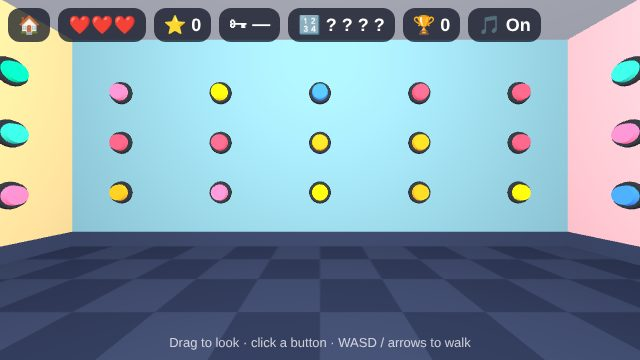
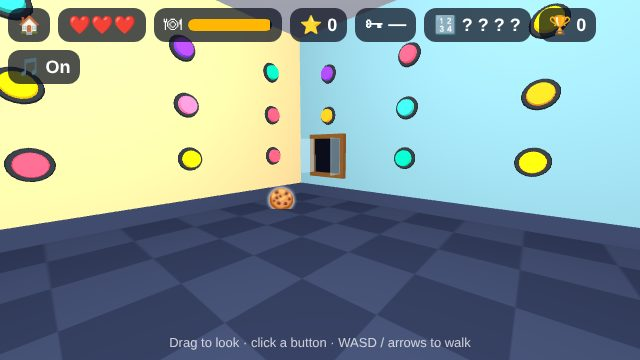
Button Room: hunger bar, food from pop-out windows, breakable vases, and chests you can smash or open with a code from a sticky note
Claude-Session: https://claude.ai/code/session_012zsgkUrjgma7X9rcNX1Aym

diff --git a/button-room/index.html b/button-room/index.html
@@ -59,11 +59,17 @@ button{font-family:inherit;font-weight:bold;cursor:pointer;border:0;border-radiu
 #joy i{position:absolute;left:50%;top:50%;width:46px;height:46px;margin:-23px;border-radius:50%;background:rgba(255,255,255,.6)}
 .conf{position:fixed;top:-30px;font-size:24px;animation:fall linear forwards;pointer-events:none;z-index:4}
 @keyframes fall{to{transform:translateY(110vh) rotate(540deg)}}
+#hHunger b{font-weight:normal}
+#hHunger u{display:inline-block;width:84px;height:12px;background:#0c1124;border-radius:6px;vertical-align:middle;margin-left:6px;overflow:hidden;text-decoration:none}
+#hHunger i{display:block;height:100%;width:100%;background:#ffb703}
+#hHunger.low i{background:#ff4d6d}
+#hHunger.low{animation:pulse .7s infinite alternate}
+@keyframes pulse{to{background:rgba(130,20,45,.9)}}
 </style>
 </head>
 <body>
 <canvas id="c"></canvas>
-<div id="hud"><span id="hHome" style="display:none;pointer-events:auto;cursor:pointer" role="button" aria-label="All games">🏠</span><span id="hLives"></span><span id="hStars"></span><span id="hKey"></span><span id="hCode"></span><span id="hTro"></span><span id="hMus" style="pointer-events:auto;cursor:pointer">🎵 On</span></div>
+<div id="hud"><span id="hHome" style="display:none;pointer-events:auto;cursor:pointer" role="button" aria-label="All games">🏠</span><span id="hLives"></span><span id="hHunger" title="Food"><b>🍽</b><u><i></i></u></span><span id="hStars"></span><span id="hKey"></span><span id="hCode"></span><span id="hNote" style="display:none"></span><span id="hTro"></span><span id="hMus" style="pointer-events:auto;cursor:pointer">🎵 On</span></div>
 <div id="hint"></div>
 <div id="toast"></div>
 <div id="joy"><i></i></div>
@@ -143,7 +149,7 @@ WALLS.forEach((w,wi)=>{
   const bg=new THREE.Group();bg.position.set(x,y,0);g.add(bg);
   const base=new THREE.Mesh(baseGeo,M({color:0x333a44}));base.rotation.x=Math.PI/2;base.position.z=.03;bg.add(base);
   const cap=new THREE.Mesh(capGeo,M({color:0xffffff,emissive:0x000000,emissiveIntensity:.3}));cap.rotation.x=Math.PI/2;cap.position.z=.1;bg.add(cap);
-  const b={base,cap,wall:wi,type:'good',used:false,z:.1,tz:.1};
+  const b={base,cap,wall:wi,type:'good',used:false,z:.1,tz:.1,x,y};
   base.userData={kind:'btn',b};cap.userData={kind:'btn',b};buttons.push(b);clickables.push(base,cap);
  }));
 });
@@ -184,14 +190,16 @@ function hud(){
  $('#hKey').textContent=hasKey?'🗝 Key!':'🗝 —';
  $('#hCode').textContent='🔢 '+(hasCode?code.join(' '):code.map(()=>'?').join(' '));
  $('#hTro').textContent='🏆 '+trophies;
+ $('#hNote').style.display=knowsNote?'':'none';$('#hNote').textContent='📝 '+chestCode;
 }
 function toast(t){const e=$('#toast');e.textContent=t;e.classList.add('on');clearTimeout(toast.t);toast.t=setTimeout(()=>e.classList.remove('on'),2600);}
 function fillButtons(first){
- let types=first?['door','chest','paper']:[];
+ clearWindows();
+ let types=(first?['door','chest','paper']:[]).concat(['window','window','window','window','window','window','window','vase','vase','vase','vase','loot','loot','loot']);
  const n=buttons.length-types.length,ng=Math.round(n*.27),nb=Math.round(n*.28);
  for(let i=0;i<n;i++)types.push(i<ng?'good':i<ng+nb?'bad':'chal');
  shuffle(types);
- buttons.forEach((b,i)=>{b.type=types[i];b.used=false;b.tz=.1;const c=BCOL[rnd(BCOL.length)];b.cap.material.color.set(c);b.cap.material.emissive.set(c);b.base.material.color.set(0x333a44);
+ buttons.forEach((b,i)=>{b.type=types[i];b.used=false;b.tz=.1;const c=BCOL[rnd(BCOL.length)];b.cap.material.color.set(c);b.cap.material.emissive.set(c);b.base.material.color.set(0x333a44);b.cap.visible=b.base.visible=true;
   if(b.type==='door'){wallG[b.wall].add(door);}});
 }
 function setLights(on){amb.intensity=on?.65:.07;lamp.intensity=on?.75:.12;}
@@ -203,7 +211,8 @@ function reset(){
  document.querySelectorAll('.conf').forEach(e=>e.remove());
  fillButtons(true);
  const a=Math.random()*Math.PI*2;chest.position.set(Math.sin(a)*2.6,0,Math.cos(a)*2.6);chest.rotation.y=a+Math.PI;
- camera.position.set(0,1.6,0);yaw=0;pitch=0;hud();
+ camera.position.set(0,1.6,0);yaw=0;pitch=0;
+ hunger=100;lowWarned=false;knowsNote=false;chestCode=''+rnd(10)+rnd(10)+rnd(10);clearSpawned();placeNotes();hud();
 }
 
 /* ---------- cards ---------- */
@@ -223,7 +232,7 @@ function press(b){
  if(b.used||busy)return;b.used=true;b.tz=.05;b.cap.material.color.set(0x59606b);b.cap.material.emissive.set(0x000000);b.base.material.color.set(0x333a44);
  sfx.press();busy=true;setTimeout(()=>resolve(b),380);
 }
-function peekSome(){const left=shuffle(buttons.filter(b=>!b.used)).slice(0,3);const col={good:0x06d6a0,bad:0xff2244,chal:0xffd60a,door:0x3a86ff,chest:0x3a86ff,paper:0x3a86ff};left.forEach(b=>b.base.material.color.set(col[b.type]));return left.length;}
+function peekSome(){const left=shuffle(buttons.filter(b=>!b.used)).slice(0,3);const col={good:0x06d6a0,bad:0xff2244,chal:0xffd60a,door:0x3a86ff,chest:0x3a86ff,paper:0x3a86ff,window:0xff9f1c,vase:0xff9f1c,loot:0xff9f1c};left.forEach(b=>b.base.material.color.set(col[b.type]));return left.length;}
 function resolve(b){
  const t=b.type;
  if(t==='door'){doorFound=true;door.visible=true;door.scale.y=.01;sfx.good();
@@ -232,21 +241,26 @@ function resolve(b){
   show('<h2>📄 A piece of paper popped out!</h2><div class="paper">'+code.join('')+'</div><p>That is the door passcode! It is saved at the top of the screen.</p><button class="go">OK</button>');card.querySelector('.go').onclick=()=>{hide();afterTurn();};return;}
  if(t==='chest'){chestFound=true;chest.visible=true;chest.scale.set(.01,.01,.01);sfx.good();
   info('🧰','A treasure chest!','A chest dropped into the room. The door key is inside — it costs <b>'+KEY_COST+' ⭐</b> to open. Click the chest when you have enough.',afterTurn);return;}
+ if(t==='window'){sfx.good();const fp=spawnWindow(b);firstTime('window','🪟','A window pops out!','A window popped out of the wall and <b>food fell out</b>! Click the food on the floor to eat it. Your <b>🍽 bar</b> needs it.','🪟 Food is falling out of the window!',fp);return;}
+ if(t==='vase'){sfx.good();const v=spawnVase();firstTime('vase','🏺','A vase!','A vase appeared in the room. <b>Click it 3 times to break it</b> and see what is inside.','🏺 A vase! Click it 3 times to break it.',v.pos);return;}
+ if(t==='loot'){sfx.good();const c=spawnLoot();firstTime('loot','🧰','A locked chest!','<b>Smash it</b> by clicking the chest 6 times (only food and stars survive a smash). Or click its <b>🔒 lock</b> and type the 3-digit code from a <b>yellow sticky note 📝</b> on the walls. Opening it with the code can give the key, the passcode, hearts and more!','🧰 A chest! Smash it, or use the code from a sticky note.',c.pos);return;}
  if(t==='good'){sfx.good();const r=Math.random();
   if(r<.45){addStars(1);info('⭐','Lucky!','You got 1 star.',afterTurn);}
   else if(r<.63){addStars(2);info('🌟','Very lucky!','You got 2 stars.',afterTurn);}
   else if(r<.68){addStars(3);info('💫','JACKPOT!','You got 3 stars!',afterTurn);}
   else if(r<.77){if(lives<3){lives++;hud();info('❤','Extra life!','One life came back.',afterTurn);}else{addStars(1);info('⭐','Lucky!','Your lives are full, so you got a star instead.',afterTurn);}}
   else if(r<.87){shield=true;hud();info('🛡','Shield!','It will block the next bad thing or failed challenge.',afterTurn);}
-  else{const n=peekSome();info('👀','X-ray glasses!',n+' buttons now show a colored rim:<br>🟢 good · 🔴 bad · 🟡 challenge · 🔵 door, chest or paper',afterTurn);}
+  else if(r>.94){hunger=Math.min(100,hunger+25);lowWarned=false;info('🥪','Tasty snack!','You found a snack. Your 🍽 bar went up!',afterTurn);}
+  else{const n=peekSome();info('👀','X-ray glasses!',n+' buttons now show a colored rim:<br>🟢 good · 🔴 bad · 🟡 challenge · 🔵 door, chest or paper · 🟠 food',afterTurn);}
   return;}
  if(t==='bad'){
   if(shield){shield=false;hud();sfx.good();info('🛡','Blocked!','That was a bad button, but your shield blocked it.',afterTurn);return;}
   sfx.bad();const r=Math.random();
-  if(r<.32){if(stars>0){addStars(-1);info('🦝','A thief!','A raccoon stole 1 star.',afterTurn);}else info('🦝','A thief!','A raccoon came to steal a star… but you have none. Ha!',afterTurn);}
-  else if(r<.5){if(stars>0){const n=Math.min(2,stars);addStars(-n);info('🕳','Hole in your pocket!','You dropped '+n+' star'+(n>1?'s':'')+'.',afterTurn);}else info('🕳','Hole in your pocket!','Good thing your pockets were empty.',afterTurn);}
-  else if(r<.72){setLights(false);clearTimeout(darkT);darkT=setTimeout(()=>setLights(true),14000);info('🌑','Lights out!','The room goes dark for a while.',afterTurn);}
-  else if(r<.9){curse=true;info('😈','Cursed!','Your next challenge will be harder.',afterTurn);}
+  if(r<.25){if(stars>0){addStars(-1);info('🦝','A thief!','A raccoon stole 1 star.',afterTurn);}else info('🦝','A thief!','A raccoon came to steal a star… but you have none. Ha!',afterTurn);}
+  else if(r<.4){if(stars>0){const n=Math.min(2,stars);addStars(-n);info('🕳','Hole in your pocket!','You dropped '+n+' star'+(n>1?'s':'')+'.',afterTurn);}else info('🕳','Hole in your pocket!','Good thing your pockets were empty.',afterTurn);}
+  else if(r<.6){setLights(false);clearTimeout(darkT);darkT=setTimeout(()=>setLights(true),14000);info('🌑','Lights out!','The room goes dark for a while.',afterTurn);}
+  else if(r<.78){curse=true;info('😈','Cursed!','Your next challenge will be harder.',afterTurn);}
+  else if(r<.92){hunger=Math.max(1,hunger-25);info('🌀','Tummy rumble!','Your belly growls. You lost some 🍽 food!',afterTurn);}
   else info('🧦','Stinky sock!','Yuck. Nothing else happened.',afterTurn);
   return;}
  startChallenge();
@@ -355,6 +369,168 @@ function challengeResult(ok){
  else{const n=r>.9?2:1;addStars(n);info('⭐','Challenge won!','Prize: '+n+' star'+(n>1?'s':'')+'!',afterTurn);}
 }
 
+/* ---------- hunger, food, windows, vases and chests ---------- */
+let hunger=100,lowWarned=false,started=false,knowsNote=false,chestCode='000',lastH=-1;
+const tips={},spawned={windows:[],foods:[],vases:[],chests:[],notes:[],shards:[]};
+const FOODS=[['🍎',15],['🍌',15],['🍞',20],['🍪',12],['🥕',12],['🍔',30],['🍕',30],['🍰',40]];
+const eTex={};
+function emojiTex(e){if(eTex[e])return eTex[e];const c=document.createElement('canvas');c.width=c.height=128;const x=c.getContext('2d');
+ x.font='88px "Apple Color Emoji","Segoe UI Emoji","Noto Color Emoji",sans-serif';x.textAlign='center';x.textBaseline='middle';
+ x.shadowColor='rgba(255,255,255,.95)';x.shadowBlur=16;x.fillText(e,64,70);x.fillText(e,64,70);return eTex[e]=new THREE.CanvasTexture(c);}
+function unclick(o){o.traverse(m=>{const i=clickables.indexOf(m);if(i>=0)clickables.splice(i,1);});}
+function faceTo(p){const dx=p.x-camera.position.x,dz=p.z-camera.position.z,hd=Math.hypot(dx,dz)||1;yaw=Math.atan2(-dx,-dz);pitch=Math.max(-1.1,Math.min(1.1,Math.atan2(p.y-1.6,hd)));}
+function firstTime(key,emoji,title,text,short,pos){
+ if(pos)faceTo(pos);
+ if(!tips[key]){tips[key]=1;info(emoji,title,text,afterTurn);}
+ else{toast(short);busy=false;afterTurn();}
+}
+function clearWindows(){spawned.windows.forEach(w=>w.wg.remove(w.g));spawned.windows.length=0;}
+function clearSpawned(){
+ clearWindows();[...spawned.foods].forEach(removeFood);
+ spawned.vases.forEach(v=>{scene.remove(v.g);unclick(v.g);});spawned.vases.length=0;
+ spawned.chests.forEach(c=>{scene.remove(c.g);unclick(c.g);});spawned.chests.length=0;
+ spawned.notes.forEach(m=>{if(m.parent)m.parent.remove(m);unclick(m);});spawned.notes.length=0;
+ spawned.shards.forEach(h=>scene.remove(h.m));spawned.shards.length=0;
+}
+function floorSpot(){
+ const taken=spawned.vases.map(v=>v.g.position).concat(spawned.chests.map(c=>c.g.position),[chest.position]);
+ let p;for(let i=0;i<40;i++){const a=Math.random()*6.283,r=2+Math.random()*2.3;p=new THREE.Vector3(Math.sin(a)*r,0,Math.cos(a)*r);
+  if(taken.every(q=>Math.hypot(q.x-p.x,q.z-p.z)>1.3)&&Math.hypot(p.x-camera.position.x,p.z-camera.position.z)>1.1)break;}
+ return p;}
+
+// food
+function makeFood(f,pos,vel){
+ const sp=new THREE.Sprite(new THREE.SpriteMaterial({map:emojiTex(f[0]),transparent:true}));sp.scale.set(.8,.8,1);sp.position.copy(pos);
+ const o={e:f[0],v:f[1],vel:vel.clone(),landed:false,ph:Math.random()*6,s:sp};sp.userData={kind:'food',f:o};
+ scene.add(sp);clickables.push(sp);spawned.foods.push(o);while(spawned.foods.length>14)removeFood(spawned.foods[0]);return o;}
+function removeFood(o){scene.remove(o.s);const i=clickables.indexOf(o.s);if(i>=0)clickables.splice(i,1);const j=spawned.foods.indexOf(o);if(j>=0)spawned.foods.splice(j,1);}
+function dropFoods(pos,n){for(let i=0;i<n;i++)makeFood(FOODS[rnd(FOODS.length)],pos.clone().add(new THREE.Vector3((Math.random()-.5)*.4,.3,(Math.random()-.5)*.4)),new THREE.Vector3((Math.random()-.5)*2.2,2+Math.random()*1.5,(Math.random()-.5)*2.2));}
+function eat(o){hunger=Math.min(100,hunger+o.v);lowWarned=false;removeFood(o);tone(300,.06,'square',.1);tone(420,.08,'square',.1,.07);tone(660,.15,'sine',.15,.15);toast(o.e+' Yum! +'+o.v+' food');}
+
+// window that pops out of the wall and drops food
+function spawnWindow(b){
+ const wg=wallG[b.wall],ry=WALLS[b.wall].ry;b.cap.visible=false;b.base.visible=false;
+ const g=new THREE.Group();g.position.set(b.x,b.y,.06);g.scale.setScalar(.01);wg.add(g);
+ const wood=M({color:0x8a5a2b,roughness:.7});
+ const bar=(w,h,x,y)=>{const m=new THREE.Mesh(new THREE.BoxGeometry(w,h,.12),wood);m.position.set(x,y,0);g.add(m);};
+ bar(1,.1,0,.45);bar(1,.1,0,-.45);bar(.1,.8,-.45,0);bar(.1,.8,.45,0);
+ const dark=new THREE.Mesh(new THREE.PlaneGeometry(.8,.8),new THREE.MeshBasicMaterial({color:0x0b0e1a}));dark.position.z=-.02;g.add(dark);
+ const hinges=[-1,1].map(sd=>{const h=new THREE.Group();h.position.set(sd*.4,0,.04);g.add(h);
+  const pane=new THREE.Mesh(new THREE.BoxGeometry(.4,.8,.03),M({color:0xbfe6ff,transparent:true,opacity:.55,roughness:.1}));pane.position.x=-sd*.2;h.add(pane);return h;});
+ const w={g,wg,t:0,hinges};spawned.windows.push(w);sfx.chal();
+ setTimeout(()=>{if(spawned.windows.indexOf(w)<0)return;
+  const p=wg.localToWorld(new THREE.Vector3(b.x,b.y,.35)),n=new THREE.Vector3(Math.sin(ry),0,Math.cos(ry)).multiplyScalar(1.3+Math.random()*.6);n.y=1.2;
+  makeFood(FOODS[rnd(FOODS.length)],p,n);tone(520,.12,'triangle',.12);},900);
+ const wp=wg.localToWorld(new THREE.Vector3(b.x,b.y,.4));return new THREE.Vector3(wp.x,b.y*.45,wp.z);
+}
+
+// vase: click 3 times to break it
+const VASEPTS=[[0,0],[.22,0],[.3,.08],[.42,.34],[.38,.58],[.2,.76],[.19,.88],[.3,.98],[.27,1],[.15,.92]].map(q=>new THREE.Vector2(q[0]*.9,q[1]*.9));
+function spawnVase(){
+ const col=[0x2a9d8f,0xe76f51,0x6a4c93,0x2f6fdb,0xd62828][rnd(5)],p=floorSpot();
+ const g=new THREE.Group();g.position.copy(p);g.scale.setScalar(.01);scene.add(g);
+ const mesh=new THREE.Mesh(new THREE.LatheGeometry(VASEPTS,20),M({color:col,roughness:.35,metalness:.1,side:THREE.DoubleSide}));g.add(mesh);
+ const stripe=new THREE.Mesh(new THREE.TorusGeometry(.385,.03,6,20),M({color:0xffd60a}));stripe.rotation.x=Math.PI/2;stripe.position.y=.3;g.add(stripe);
+ const v={g,col,hits:0,wob:0,done:false,pos:new THREE.Vector3(p.x,.5,p.z)};mesh.userData={kind:'vase',v};stripe.userData=mesh.userData;
+ clickables.push(mesh,stripe);spawned.vases.push(v);return v;}
+function hitVase(v){
+ if(v.done)return;v.hits++;v.wob=.45;tone(200+v.hits*90,.09,'square',.1);
+ if(v.hits<3){toast('🏺 Crack! '+(3-v.hits)+' more');return;}
+ v.done=true;scene.remove(v.g);unclick(v.g);const i=spawned.vases.indexOf(v);if(i>=0)spawned.vases.splice(i,1);
+ for(let k=0;k<18;k++){const m=new THREE.Mesh(new THREE.BoxGeometry(.08+Math.random()*.1,.08+Math.random()*.1,.03),M({color:v.col}));
+  m.position.copy(v.pos).add(new THREE.Vector3((Math.random()-.5)*.4,(Math.random()-.3)*.6,(Math.random()-.5)*.4));scene.add(m);
+  spawned.shards.push({m,vel:new THREE.Vector3((Math.random()-.5)*4,2+Math.random()*2.5,(Math.random()-.5)*4),life:2.2});}
+ tone(180,.25,'sawtooth',.12);tone(120,.3,'sawtooth',.1,.05);tone(900,.06,'square',.06,.02);
+ setTimeout(()=>lootReward('vase',v.pos,true),250);
+}
+
+// loot chest: smash it (6 hits) or open the lock with the code from a sticky note
+function spawnLoot(){
+ const p=floorSpot(),g=new THREE.Group();g.position.copy(p);g.rotation.y=Math.atan2(camera.position.x-p.x,camera.position.z-p.z);g.scale.setScalar(.01);scene.add(g);
+ const steel=M({color:0x4a6fa5,roughness:.5,metalness:.3}),silver=M({color:0xc9d6e8,metalness:.7,roughness:.3});
+ const body=new THREE.Mesh(new THREE.BoxGeometry(1.1,.55,.7),steel);body.position.y=.275;g.add(body);
+ const bnd=new THREE.Mesh(new THREE.BoxGeometry(1.14,.1,.74),silver);bnd.position.y=.42;g.add(bnd);
+ const lidP=new THREE.Group();lidP.position.set(0,.55,-.35);g.add(lidP);
+ const lid=new THREE.Mesh(new THREE.BoxGeometry(1.1,.24,.7),steel);lid.position.set(0,.12,.35);lidP.add(lid);
+ const lk=new THREE.Mesh(new THREE.BoxGeometry(.24,.3,.1),M({color:0xffd60a,metalness:.6,roughness:.3,emissive:0x553300,emissiveIntensity:.5}));lk.position.set(0,.47,.39);g.add(lk);
+ const ch={g,lidP,lock:lk,hits:0,shake:0,opened:false,bx:p.x,pos:new THREE.Vector3(p.x,.4,p.z)};
+ [body,bnd,lid].forEach(m=>{m.userData={kind:'lootBody',ch};});lk.userData={kind:'lootLock',ch};
+ clickables.push(body,bnd,lid,lk);spawned.chests.push(ch);return ch;}
+function hitLoot(ch){
+ if(ch.opened)return;ch.hits++;ch.shake=.35;tone(130+ch.hits*25,.12,'sawtooth',.12);
+ if(ch.hits<6){toast('💥 '+(6-ch.hits)+' more hits!');return;}
+ ch.opened=true;unclick(ch.g);tone(100,.3,'sawtooth',.14);toast('💥 Smashed open! Some things inside broke…');
+ setTimeout(()=>lootReward('loot',ch.pos,true),250);
+}
+function lockLoot(ch){
+ if(ch.opened)return;
+ keypad('🔒 Chest lock','Type the 3-digit code. Look for a yellow sticky note 📝 on the walls!',3,c=>{
+  if(c===chestCode){hide();ch.opened=true;unclick(ch.g);sfx.win();toast('🔓 Click! The chest opened!');setTimeout(()=>lootReward('loot',ch.pos,false),300);}
+  else{sfx.bad();info('❌','Wrong code','The lock did not open. Find the sticky note 📝 with the code!');}});
+}
+function keypad(title,sub,len,cb){
+ let entry=[];
+ const draw=()=>{card.querySelector('.slots').textContent=Array.from({length:len},(_,i)=>entry[i]!==undefined?entry[i]:'•').join('');};
+ let k='';[1,2,3,4,5,6,7,8,9].forEach(n=>k+='<button data-n="'+n+'">'+n+'</button>');
+ k+='<button class="x" data-n="del">⌫</button><button data-n="0">0</button><button class="e" data-n="ok">OK</button>';
+ show('<h2>'+title+'</h2><p>'+sub+'</p><div class="slots"></div><div class="keys">'+k+'</div><button class="alt">Cancel</button>');
+ draw();card.querySelector('.alt').onclick=hide;
+ card.querySelectorAll('.keys button').forEach(bt=>bt.onclick=()=>{const n=bt.dataset.n;sfx.tick();
+  if(n==='del')entry.pop();else if(n==='ok'){if(entry.length<len)return;cb(entry.join(''));return;}else if(entry.length<len)entry.push(n);draw();});
+}
+function weighted(t){let r=Math.random()*t.reduce((a,x)=>a+x[1],0);for(const x of t){r-=x[1];if(r<=0)return x[0];}return t[0][0];}
+function showPaper(cb){hasCode=true;hud();sfx.win();show('<h2>📄 The door passcode!</h2><div class="paper">'+code.join('')+'</div><p>It is saved at the top of the screen.</p><button class="go">OK</button>');card.querySelector('.go').onclick=()=>{hide();if(cb)cb();};}
+function lootReward(kind,pos,smashed){
+ let t;
+ if(kind==='vase')t=[['food',.7],['stars',.2],['bug',.1]];
+ else if(smashed)t=[['feast',.5],['stars',.35],['bug',.15]];
+ else t=[['feast',.3],['stars',.2],['heart',.12],['shield',.12],['key',.13],['paper',.13]];
+ let k=weighted(t);
+ if(k==='heart'&&lives>=3)k='stars';if(k==='key'&&hasKey)k='feast';if(k==='paper'&&hasCode)k='stars';
+ if(k==='food'){dropFoods(pos,1);toast('🍎 Food fell out! Click it to eat.');}
+ else if(k==='feast'){dropFoods(pos,2+(Math.random()<.4?1:0));toast('🍽 A feast! Click the food to eat it.');}
+ else if(k==='stars'){const n=(kind==='vase'?1:2)+rnd(2);addStars(n);sfx.good();toast('⭐ +'+n+' stars!');}
+ else if(k==='bug'){toast('🐛 Just a bug… nothing inside!');}
+ else if(k==='heart'){lives++;hud();sfx.good();info('❤','Extra life!','A heart was hiding in the chest.',afterTurn);}
+ else if(k==='shield'){shield=true;hud();sfx.good();info('🛡','Shield!','It will block the next bad thing or failed challenge.',afterTurn);}
+ else if(k==='key'){hasKey=true;hud();sfx.win();info('🗝','The door key!','It was hiding inside the chest!'+(doorFound?'':' Now find the door!'),afterTurn);}
+ else showPaper(afterTurn);
+}
+
+// sticky notes with the chest code, stuck between the buttons
+function placeNotes(){
+ const dw=(buttons.find(b=>b.type==='door')||{wall:0}).wall;
+ shuffle([0,1,2,3].filter(w=>w!==dw)).slice(0,2).forEach(wi=>{
+  const cv2=document.createElement('canvas');cv2.width=cv2.height=128;const c=cv2.getContext('2d');
+  c.fillStyle='#ffe066';c.fillRect(0,0,128,128);c.fillStyle='rgba(0,0,0,.12)';c.fillRect(0,0,128,16);
+  c.fillStyle='#333';c.textAlign='center';c.font='bold 22px Trebuchet MS,Verdana,sans-serif';c.fillText('CODE',64,48);c.font='bold 44px "Courier New",monospace';c.fillText(chestCode,64,100);
+  const m=new THREE.Mesh(new THREE.PlaneGeometry(.55,.55),new THREE.MeshBasicMaterial({map:new THREE.CanvasTexture(cv2)}));
+  m.position.set([-3.6,-1.2,1.2,3.6][rnd(4)],[1.9,3.1][rnd(2)],.02);m.rotation.z=(Math.random()-.5)*.25;m.userData={kind:'note'};
+  wallG[wi].add(m);clickables.push(m);spawned.notes.push(m);});
+}
+function showNote(){knowsNote=true;hud();sfx.good();show('<h2>📝 Sticky note</h2><div class="paper">'+chestCode+'</div><p>A <b>chest code</b>! It opens the 🔒 on locked chests. It is saved at the top of the screen.</p><button class="go">OK</button>');card.querySelector('.go').onclick=hide;}
+
+// hunger bar
+function starve(){hunger=35;lowWarned=false;sfx.bad();const m=loseLife();info('🍽','Starving!','Your tummy was empty. '+m,afterTurn);}
+function updHunger(dt){
+ if(started&&!won)hunger=Math.max(0,hunger-dt*(busy?.25:.5));
+ const r=Math.round(hunger);if(r!==lastH){lastH=r;const hb=$('#hHunger');hb.querySelector('i').style.width=r+'%';hb.classList.toggle('low',r<25);}
+ if(started&&!won&&!busy){if(hunger<=0)starve();else if(hunger<25&&!lowWarned){lowWarned=true;toast('🍽 You are getting hungry! Find food!');}}
+}
+function updSpawned(dt,now){
+ for(const w of spawned.windows){w.t+=dt;w.g.scale.setScalar(Math.max(.01,Math.min(1,w.t/.4))*1.3);const o=Math.max(0,Math.min(1,(w.t-.4)/.5));w.hinges[0].rotation.y=-1.7*o;w.hinges[1].rotation.y=1.7*o;}
+ for(const o of spawned.foods){
+  if(!o.landed){o.vel.y-=9*dt;o.s.position.addScaledVector(o.vel,dt);o.s.position.x=Math.max(-5.4,Math.min(5.4,o.s.position.x));o.s.position.z=Math.max(-5.4,Math.min(5.4,o.s.position.z));
+   if(o.s.position.y<=.3){o.s.position.y=.3;if(o.vel.y<-2.5){o.vel.y=-o.vel.y*.35;o.vel.x*=.6;o.vel.z*=.6;}else o.landed=true;}}
+  else o.s.position.y=.3+Math.sin(now/300+o.ph)*.05;}
+ for(const v of spawned.vases){if(v.g.scale.x<1)v.g.scale.setScalar(Math.min(1,v.g.scale.x+dt*3));if(v.wob>0){v.wob-=dt;v.g.rotation.z=Math.sin(now/20)*.18*Math.max(0,v.wob/.45);}else v.g.rotation.z=0;}
+ for(const c of spawned.chests){if(c.g.scale.x<1)c.g.scale.setScalar(Math.min(1,c.g.scale.x+dt*3));
+  if(c.shake>0){c.shake-=dt;c.g.position.x=c.bx+Math.sin(now/15)*.05*Math.max(0,c.shake/.35);}else c.g.position.x=c.bx;
+  c.lidP.rotation.x+=((c.opened?-1.2:0)-c.lidP.rotation.x)*.12;}
+ for(let i=spawned.shards.length-1;i>=0;i--){const h=spawned.shards[i];h.vel.y-=9*dt;h.m.position.addScaledVector(h.vel,dt);h.m.rotation.x+=dt*6;h.m.rotation.z+=dt*5;
+  if(h.m.position.y<.05){h.m.position.y=.05;h.vel.multiplyScalar(.3);}h.life-=dt;if(h.life<=0){scene.remove(h.m);spawned.shards.splice(i,1);}}
+}
+
 /* ---------- controls ---------- */
 let yaw=0,pitch=0;const keys={};
 window.addEventListener('keydown',e=>{keys[e.key.toLowerCase()]=true;if(e.key.indexOf('Arrow')===0)e.preventDefault();});
@@ -371,7 +547,8 @@ cv.addEventListener('pointermove',e=>{
   yaw+=dx*.005;pitch=Math.max(-1.1,Math.min(1.1,pitch+dy*.005));}
  else if(e.pointerType==='mouse'&&!busy)cv.style.cursor=pick(e.clientX,e.clientY)?'pointer':'grab';});
 const endDrag=e=>{if(!drag||drag.id!==e.pointerId)return;const m=drag.m;drag=null;if(e.type==='pointerup'&&m<12&&!busy&&!won){const u=pick(e.clientX,e.clientY);if(!u)return;
- if(u.kind==='btn')press(u.b);else if(u.kind==='door')clickDoor();else clickChest();}};
+ if(u.kind==='btn')press(u.b);else if(u.kind==='door')clickDoor();else if(u.kind==='chest')clickChest();
+ else if(u.kind==='food')eat(u.f);else if(u.kind==='vase')hitVase(u.v);else if(u.kind==='lootBody')hitLoot(u.ch);else if(u.kind==='lootLock')lockLoot(u.ch);else if(u.kind==='note')showNote();}};
 cv.addEventListener('pointerup',endDrag);cv.addEventListener('pointercancel',endDrag);
 // joystick for touch screens
 let jx=0,jy=0;const joy=$('#joy'),jk=joy.querySelector('i');
@@ -403,11 +580,12 @@ function frame(now){
  lidP.rotation.x+=((hasKey?-1.2:0)-lidP.rotation.x)*.1;
  hinge.rotation.y+=((doorOpen?-1.9:0)-hinge.rotation.y)*.06;
  if(trophy.visible){const s=Math.min(1,trophy.scale.x+dt*1.2);trophy.scale.set(s,s,s);trophy.rotation.y+=dt*1.6;trophy.position.y=.55+Math.sin(now/400)*.08;}
+ updSpawned(dt,now);updHunger(dt);
  renderer.render(scene,camera);requestAnimationFrame(frame);
 }
 reset();requestAnimationFrame(frame);
-show('<div class="big">🔴🟡🔵</div><h2>Felix&#39;s Lucky Button Room</h2><ul><li>Press the buttons on the walls. Each one is <b>good</b>, <b>bad</b>, or a <b>challenge</b>.</li><li>Fail a challenge and you lose a life. You have <b>3 ❤</b>.</li><li>One button reveals the <b>door 🚪</b>. Another drops a <b>chest 🧰</b> — pay '+KEY_COST+' ⭐ to get the <b>key 🗝</b>.</li><li>One button pops out a <b>paper 📄</b> with the <b>'+CODE_LEN+'-digit passcode 🔢</b>.</li><li>Unlock the door to escape and win the <b>trophy 🏆</b>!</li></ul><button class="go">Play</button>');
-card.querySelector('.go').onclick=()=>{hide();sfx.good();if(musicOn)startMusic();};
+show('<div class="big">🔴🟡🔵</div><h2>Felix&#39;s Lucky Button Room</h2><ul><li>Press the buttons on the walls. Each one is <b>good</b>, <b>bad</b>, or a <b>challenge</b>.</li><li>Fail a challenge and you lose a life. You have <b>3 ❤</b>.</li><li>One button reveals the <b>door 🚪</b>. Another drops a <b>chest 🧰</b> — pay '+KEY_COST+' ⭐ to get the <b>key 🗝</b>.</li><li>One button pops out a <b>paper 📄</b> with the <b>'+CODE_LEN+'-digit passcode 🔢</b>.</li><li>Watch your <b>🍽 hunger bar</b>! Food comes out of <b>windows 🪟</b>, <b>vases 🏺</b> and <b>chests 🧰</b>. When the bar is empty you lose a life.</li><li>Unlock the door to escape and win the <b>trophy 🏆</b>!</li></ul><button class="go">Play</button>');
+card.querySelector('.go').onclick=()=>{hide();started=true;sfx.good();if(musicOn)startMusic();};
 })();
 </script>
 <script>

diff --git a/index.html b/index.html
@@ -89,9 +89,9 @@ const GAMES = [
   {
     path: 'button-room/',
     title: "Felix's Lucky Button Room",
-    blurb: 'A 3D room with 60 mystery buttons on the walls. Each one is something good, something bad, or a challenge: fail a challenge and you lose one of your 3 lives! Find the secret door, the key and the paper with the passcode to escape and win the trophy. Luck and skill, with its own song.',
+    blurb: 'A 3D room with 60 mystery buttons on the walls. Each one is something good, something bad, or a challenge: fail a challenge and you lose one of your 3 lives! Keep an eye on your hunger bar: windows pop out and drop food, vases break, and chests can be smashed or opened with a secret code. Find the door, the key and the passcode to escape and win the trophy. Luck and skill, with its own song.',
     thumb: 'button-room/thumb.jpg',
-    tags: ['3D', 'Luck & skill', 'Challenges', 'Music', '1 player']
+    tags: ['3D', 'Luck & skill', 'Hunger bar', 'Music', '1 player']
   },
   {
     path: 'escape-room-online/',

diff --git a/README.md b/README.md
@@ -17,7 +17,7 @@ _headers              Cloudflare headers: service workers are never cached
 star-army/            Star Army vs. The Bugs
 paper-adventure/      Felix's Paper Adventure: 30-level platformer from Felix's paper drawings (boss every 5 levels)
 star-army-online/     Star Army Online: two players on two devices (uses the room relay)
-button-room/          Felix's Lucky Button Room: 3D room of 60 mystery buttons (good, bad or a challenge), 3 lives, find the door, key and passcode paper to win the trophy; music made in the browser (bundles three.min.js locally, no server)
+button-room/          Felix's Lucky Button Room: 3D room of 60 mystery buttons (good, bad or a challenge), 3 lives and a hunger bar (food from windows, vases and smashable/code chests), find the door, key and passcode paper to win the trophy; music made in the browser (bundles three.min.js locally, no server)
 escape-room-online/   Felix's Escape Rooms Online: two devices, Together or Race (generated from escape-room/ by tools/make-escape-room-online.py; re-run it after changing escape-room/)
 escape-room/          Felix's Escape Rooms: 3D escape room, 45 levels (the last five are timed bosses) with music and sounds made in the browser (bundles three.min.js + font locally, no server)
 hide-and-seek/        Felix's Hide & Seek: 3D hide-and-seek (house from Felix's drawings, backyard, castle); bundles three.min.js + font locally
